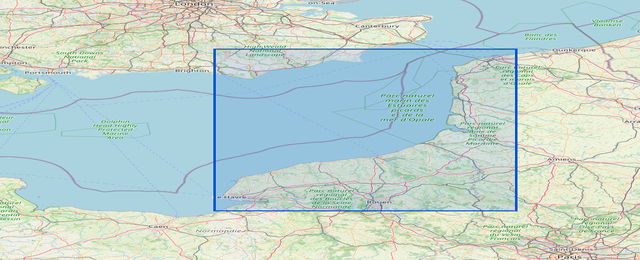
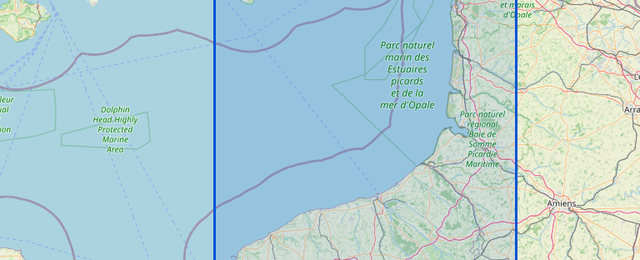
Fix area images: aspect ratio + ModelArea coverage image
- Crop box now corrects for canvas-edge clamping to guarantee OUT_W:OUT_H
  ratio before resize, preventing map distortion
- ModelArea image derived from union of all area bboxes (expanded 20%),
  rendered without bbox rectangle
- Set img=ModelArea.png in both models' model_meta.json

diff --git a/www/models/arome-hd-1.3km/index.html b/www/models/arome-hd-1.3km/index.html
@@ -65,7 +65,7 @@
     </div>
     <div>
       <div class="text-[9px] uppercase tracking-widest text-on-surface-variant mb-1">Files Available</div>
-      <div class="font-bold">2026-04-04 14:46 UTC</div>
+      <div class="font-bold">2026-04-04 16:04 UTC</div>
     </div>
   </div>
 </section>
@@ -98,7 +98,7 @@
         <div class="font-bold text-base leading-tight">Model Area</div>
         <div class="text-[10px] font-mono text-on-surface-variant uppercase tracking-tight mt-0.5">Full model domain</div>
       </div>
-      <div class="w-full bg-surface-container-highest border-b border-outline-variant/20 flex items-center justify-center" style="aspect-ratio:640/260"><span class="material-symbols-outlined text-on-surface-variant text-4xl opacity-40">map</span></div>
+      <img src="img/ModelArea.png" alt="Model Area coverage map" class="w-full block object-cover" style="aspect-ratio:640/260"/>
       <table class="w-full text-[11px] font-mono border-collapse">
         <thead>
           <tr class="bg-surface-container-highest">

diff --git a/www/models/harm-nl-2km/index.html b/www/models/harm-nl-2km/index.html
@@ -65,7 +65,7 @@
     </div>
     <div>
       <div class="text-[9px] uppercase tracking-widest text-on-surface-variant mb-1">Files Available</div>
-      <div class="font-bold">2026-04-04 14:46 UTC</div>
+      <div class="font-bold">2026-04-04 16:04 UTC</div>
     </div>
   </div>
 </section>
@@ -98,7 +98,7 @@
         <div class="font-bold text-base leading-tight">Model Area</div>
         <div class="text-[10px] font-mono text-on-surface-variant uppercase tracking-tight mt-0.5">Full model domain</div>
       </div>
-      <div class="w-full bg-surface-container-highest border-b border-outline-variant/20 flex items-center justify-center" style="aspect-ratio:640/260"><span class="material-symbols-outlined text-on-surface-variant text-4xl opacity-40">map</span></div>
+      <img src="img/ModelArea.png" alt="Model Area coverage map" class="w-full block object-cover" style="aspect-ratio:640/260"/>
       <table class="w-full text-[11px] font-mono border-collapse">
         <thead>
           <tr class="bg-surface-container-highest">

diff --git a/www/index.html b/www/index.html
@@ -109,7 +109,7 @@
       </div>
       <div>
         <h4 class="text-[11px] font-black uppercase tracking-widest mb-6">Last Updated</h4>
-        <p class="text-[10px] text-on-surface-variant font-mono uppercase tracking-wide">2026-04-04 14:46 UTC</p>
+        <p class="text-[10px] text-on-surface-variant font-mono uppercase tracking-wide">2026-04-04 16:04 UTC</p>
       </div>
     </div>
 

diff --git a/scripts/generate_area_images.py b/scripts/generate_area_images.py
@@ -1,9 +1,12 @@
 """
 Generate map images for each geographic area defined in model_meta.json.
 
-For each bounded area (bbox != null) this script renders an OSM base map
-composited with an OpenSeaMap seamark overlay, draws the bounding box
-rectangle, and saves a PNG to www/models/<model-id>/img/<area-key>.png.
+For each area this script renders an OSM base map composited with an
+OpenSeaMap seamark overlay, draws the bounding box rectangle, and saves
+a PNG to www/models/<model-id>/img/<area-key>.png.
+
+ModelArea (bbox=null) gets an image derived from the union of all other
+areas' bboxes, expanded by 20%, with no rectangle drawn.
 
 Usage:
     python3 scripts/generate_area_images.py                  # all models
@@ -87,7 +90,7 @@ def stitch_layer(tx1, tx2, ty1, ty2, zoom, url_tpl, transparent_bg=False):
 
 # ── Image generation ─────────────────────────────────────────────────────────
 
-def generate_area_image(lon_w, lon_e, lat_s, lat_n, out_path):
+def generate_area_image(lon_w, lon_e, lat_s, lat_n, out_path, draw_box=True):
     pad_lon = (lon_e - lon_w) * 0.40
     pad_lat = (lat_n - lat_s) * 0.40
     vlon_w = lon_w - pad_lon
@@ -129,15 +132,17 @@ def generate_area_image(lon_w, lon_e, lat_s, lat_n, out_path):
     x0, y0 = lpx(lon_w), tpx(lat_n)
     x1, y1 = lpx(lon_e), tpx(lat_s)
 
-    # Semi-transparent fill
-    overlay = Image.new("RGBA", (cw, ch), (0, 0, 0, 0))
-    ImageDraw.Draw(overlay).rectangle([x0, y0, x1, y1], fill=(*PRIMARY, 30))
-    base = Image.alpha_composite(base, overlay)
+    if draw_box:
+        # Semi-transparent fill
+        overlay = Image.new("RGBA", (cw, ch), (0, 0, 0, 0))
+        ImageDraw.Draw(overlay).rectangle([x0, y0, x1, y1], fill=(*PRIMARY, 30))
+        base = Image.alpha_composite(base, overlay)
+        # Solid outline
+        ImageDraw.Draw(base).rectangle([x0, y0, x1, y1], outline=(*PRIMARY, 255), width=3)
 
-    # Solid outline
-    ImageDraw.Draw(base).rectangle([x0, y0, x1, y1], outline=(*PRIMARY, 255), width=3)
-
-    # Crop centred on bbox with generous context, then resize to output
+    # Crop centred on bbox with generous context, then resize to output.
+    # The crop box must have exactly OUT_W:OUT_H aspect ratio before resize
+    # to avoid stretching the map.
     cx = (x0 + x1) / 2
     cy = (y0 + y1) / 2
     bbox_w = (x1 - x0) * 1.6
@@ -146,12 +151,25 @@ def generate_area_image(lon_w, lon_e, lat_s, lat_n, out_path):
     cw2 = max(bbox_w, bbox_h * aspect)
     ch2 = cw2 / aspect
 
-    box = (
-        max(0, int(cx - cw2 / 2)),
-        max(0, int(cy - ch2 / 2)),
-        min(cw, int(cx + cw2 / 2)),
-        min(ch, int(cy + ch2 / 2)),
-    )
+    # Clamp to canvas, then restore aspect ratio by expanding the short side
+    left   = max(0, cx - cw2 / 2)
+    top    = max(0, cy - ch2 / 2)
+    right  = min(cw, cx + cw2 / 2)
+    bottom = min(ch, cy + ch2 / 2)
+    actual_w = right - left
+    actual_h = bottom - top
+    if actual_w / actual_h > aspect:
+        # Too wide — trim width to match height
+        excess = actual_w - actual_h * aspect
+        left  += excess / 2
+        right -= excess / 2
+    else:
+        # Too tall — trim height to match width
+        excess = actual_h - actual_w / aspect
+        top    += excess / 2
+        bottom -= excess / 2
+
+    box = (int(left), int(top), int(right), int(bottom))
 
     out_path.parent.mkdir(parents=True, exist_ok=True)
     base.crop(box).resize((OUT_W, OUT_H), Image.LANCZOS).convert("RGB").save(out_path, "PNG")
@@ -159,6 +177,19 @@ def generate_area_image(lon_w, lon_e, lat_s, lat_n, out_path):
 
 
 # ── Main ─────────────────────────────────────────────────────────────────────
+
+def union_bbox(areas):
+    """Return (lon_w, lon_e, lat_s, lat_n) covering all bounded areas."""
+    bboxes = [list(map(float, a["bbox"].split(","))) for a in areas if a.get("bbox")]
+    lon_w = min(b[0] for b in bboxes)
+    lon_e = max(b[1] for b in bboxes)
+    lat_s = min(b[2] for b in bboxes)
+    lat_n = max(b[3] for b in bboxes)
+    # Expand 20% for context
+    pad_lon = (lon_e - lon_w) * 0.20
+    pad_lat = (lat_n - lat_s) * 0.20
+    return lon_w - pad_lon, lon_e + pad_lon, lat_s - pad_lat, lat_n + pad_lat
+
 
 def process_model(model_id):
     meta_path = SCRIPTS_DIR / model_id / "model_meta.json"
@@ -168,15 +199,23 @@ def process_model(model_id):
     img_dir = WWW_DIR / "models" / model_id / "img"
     img_dir.mkdir(parents=True, exist_ok=True)
 
-    areas = [a for a in meta["areas"] if a.get("bbox")]
-    print(f"  {len(areas)} bounded areas")
+    all_areas = meta["areas"]
+    print(f"  {len(all_areas)} areas")
 
-    for area in areas:
+    for area in all_areas:
         key = area["key"]
-        lon_w, lon_e, lat_s, lat_n = map(float, area["bbox"].split(","))
         out_file = img_dir / f"{key}.png"
-        print(f"  [{key}] bbox={area['bbox']}")
-        generate_area_image(lon_w, lon_e, lat_s, lat_n, out_file)
+
+        if area.get("bbox"):
+            lon_w, lon_e, lat_s, lat_n = map(float, area["bbox"].split(","))
+            draw_box = True
+        else:
+            # ModelArea: use the union of all other areas, no bbox rectangle
+            lon_w, lon_e, lat_s, lat_n = union_bbox(all_areas)
+            draw_box = False
+
+        print(f"  [{key}] {'bbox=' + area['bbox'] if area.get('bbox') else 'union bbox'}")
+        generate_area_image(lon_w, lon_e, lat_s, lat_n, out_file, draw_box=draw_box)
 
 
 def main():
